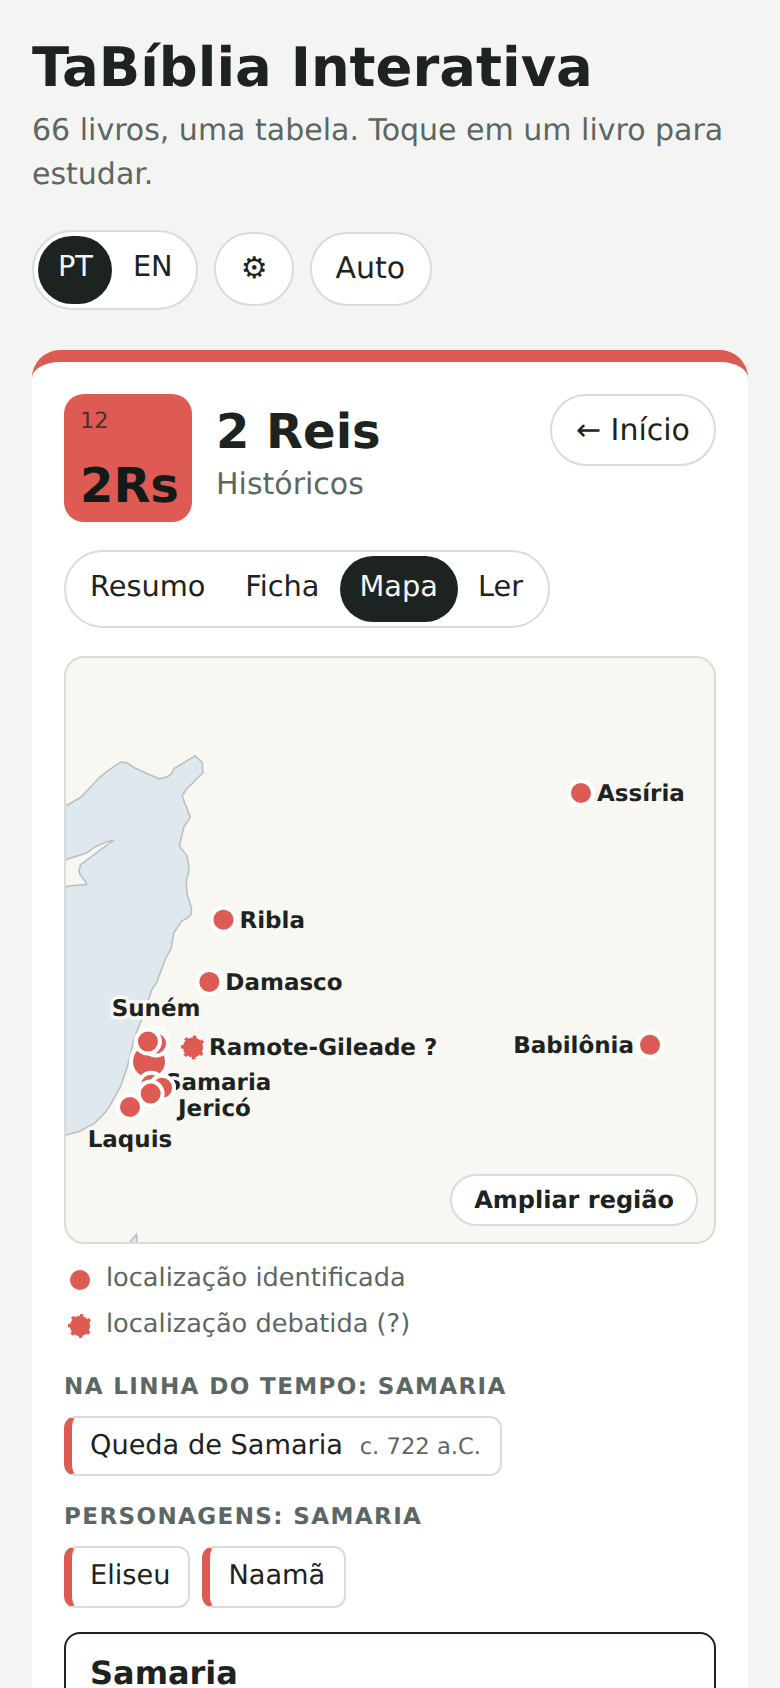
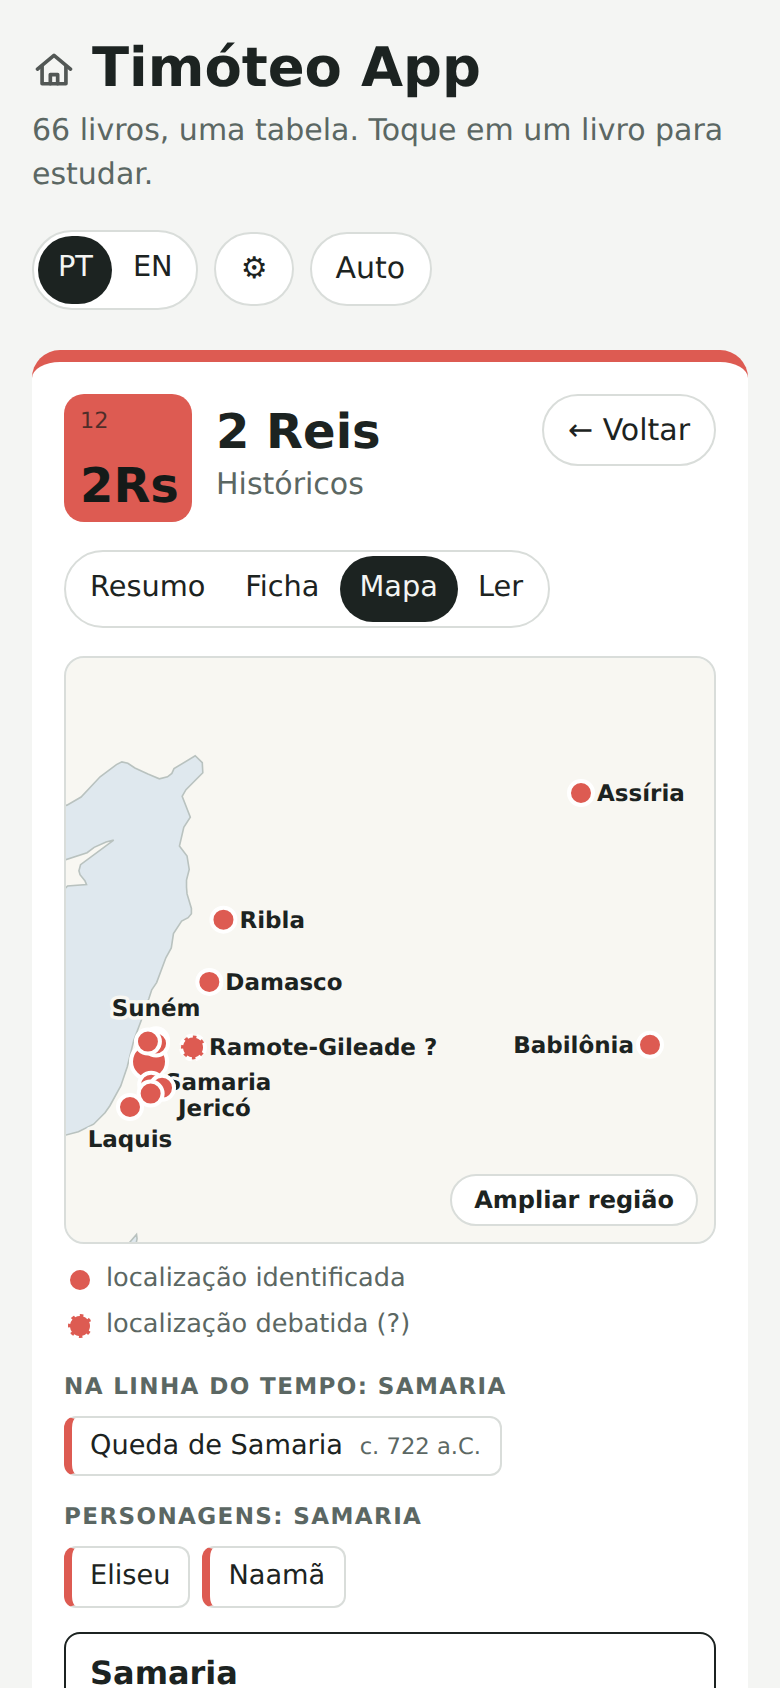
Nome do produto: Timóteo App (EN: Timoteo App) no lugar de TaBíblia Interativa; capturas atualizadas
Claude-Session: https://claude.ai/code/session_0164XaicYoLjxwADqucEnrbc

Changed region(s): [[0.0308, 0.0, 0.7692, 0.0616], [0.7692, 0.2464, 0.8923, 0.2773], [0.7077, 0.2464, 0.7385, 0.2773]]

diff --git a/src/i18n.js b/src/i18n.js
@@ -6,7 +6,7 @@ export const LANGS = [
 
 export const T = {
   pt: {
-    title: 'TaBíblia Interativa',
+    title: 'Timóteo App',
     subtitle: '66 livros, uma tabela. Toque em um livro para estudar.',
     search: 'Buscar livro',
     all: 'Todos',
@@ -113,7 +113,7 @@ export const T = {
     madeBy: 'Desenvolvido por',
   },
   en: {
-    title: 'Interactive TaBíblia',
+    title: 'Timoteo App',
     subtitle: '66 books, one table. Tap a book to study.',
     search: 'Search book',
     all: 'All',

diff --git a/index.html b/index.html
@@ -3,7 +3,7 @@
   <head>
     <meta charset="UTF-8" />
     <meta name="viewport" content="width=device-width, initial-scale=1.0" />
-    <title>TaBíblia Interativa</title>
+    <title>Timóteo App</title>
     <meta name="description" content="Tabela interativa dos 66 livros da Bíblia, com ficha de estudo e texto." />
     <link rel="preconnect" href="https://fonts.googleapis.com" />
     <link rel="preconnect" href="https://fonts.gstatic.com" crossorigin />

diff --git a/src/pageTitle.js b/src/pageTitle.js
@@ -1,6 +1,6 @@
 import { useEffect } from 'react';
 
-// Título da aba do navegador por página: "João · Mapa · TaBíblia Interativa". Sem argumento, volta ao título da página inicial.
+// Título da aba do navegador por página: "João · Mapa · Timóteo App". Sem argumento, volta ao título da página inicial.
 export function usePageTitle(parts, base, enabled = true) {
   const key = parts.filter(Boolean).join(' · ');
   useEffect(() => {

diff --git a/docs/licencas-texto-biblico.md b/docs/licencas-texto-biblico.md
@@ -43,7 +43,7 @@ O termo de uso da SBB (EULA) permite uso pessoal e sem fins lucrativos, como lei
 Passo a passo:
 1. O pedido é do André, como projeto pessoal (não é da UniMissional). Dizer isso no e-mail. Se algum dia for pedido em nome da UniMissional, isso precisa ser decidido por ele e dito de forma explícita.
 2. Escrever para **direitos@sbb.org.br** (endereço indicado no EULA para pedidos de autorização), com cópia para **contato@sbb.org.br**.
-3. Informar: quem é o solicitante, o projeto (TaBíblia Interativa), o endereço do site e do repositório, e que é gratuito, sem anúncios, sem venda e para estudo bíblico.
+3. Informar: quem é o solicitante, o projeto (Timóteo App), o endereço do site e do repositório, e que é gratuito, sem anúncios, sem venda e para estudo bíblico.
 4. Dizer exatamente o que quer: quais versões (ARA, NAA), exibição por capítulo, sem botão de download, texto servido do próprio site ou por API, idiomas da interface.
 5. Pedir resposta por escrito com: autorização ou negativa, condições, texto exato do aviso de direitos autorais que deve aparecer e prazo de validade.
 6. Sem resposta em cerca de 10 dias úteis, ligar para (11) 4195-9590 ou usar o WhatsApp 800-727-8888, ambos listados em sbb.org.br/fale-conosco.

diff --git a/CLAUDE.md b/CLAUDE.md
@@ -1,4 +1,6 @@
-# TaBíblia Interativa (repo `biblia`)
+# Timóteo App (repo `biblia`)
+
+Nome comercial: **Timóteo App** (em inglês, **Timoteo App**). "TaBíblia" era só o nome de trabalho, inspirado no "TaBíblia Periódica", e não é o nome do produto; o repositório ainda se chama `biblia` até ser renomeado.
 
 Tabela interativa dos 66 livros da Bíblia (inspirada no "TaBíblia Periódica"), com ficha de estudo e leitor de texto, para uso público em estudo bíblico. Stack: React 18 + Vite, sem backend. Publicação: GitHub Pages via GitHub Actions.
 

diff --git a/README.en.md b/README.en.md
@@ -1,6 +1,6 @@
 [🇧🇷 Português](README.md) | 🇺🇸 English
 
-# 📖 TaBíblia Interativa
+# 📖 Timoteo App
 
 **Interactive Bible study: every book with a study sheet, a map, a timeline and people pages, and the text in four clearly licensed versions.**
 

diff --git a/README.md b/README.md
@@ -1,6 +1,6 @@
 🇧🇷 Português | [🇺🇸 English](README.en.md)
 
-# 📖 TaBíblia Interativa
+# 📖 Timóteo App
 
 **Estudo bíblico interativo: cada livro com ficha, mapa, linha do tempo e personagens, e o texto em quatro versões de licença clara.**
 
